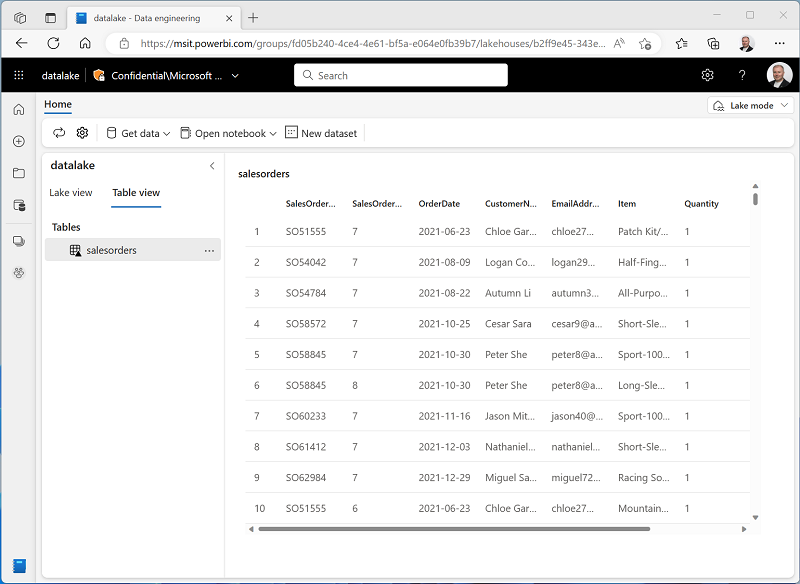
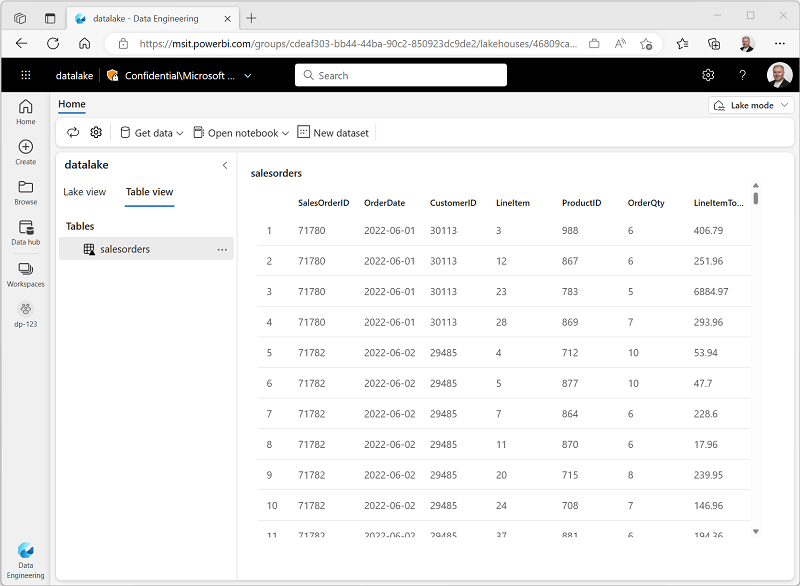
Added warehouse section

diff --git a/Instructions/Labs/00-lakehouse.md b/Instructions/Labs/00-lakehouse.md
@@ -4,13 +4,18 @@ lab:
     module: 'Get started with Lakehouses'
 ---
 
+---
+*The UI is changing frequently -we'll need to update (or remove) screenshots prior to release.*
+
+---
+
 # Create a lakehouse
 
 Large-scale data analytics solutions have traditionally been built around a *data warehouse*, in which data is stored in relational tables and queried using SQL. The growth in "big data" (characterized by high *volumes*, *variety*, and *velocity* of new data assets) together with the availability of low-cost storage and cloud-scale distributed compute technologies has led to an alternative approach to analytical data storage; the *data lake*. In a data lake, data is stored as files without imposing a fixed schema for storage. Increasingly, data engineers and analysts seek to benefit from the best features of both of these approaches by combining them in a *data lakehouse*; in which data is stored in files in a data lake and a relational schema is applied to them as a metadata layer so that they can be queried using traditional SQL semantics.
 
 In Microsoft Fabric, a lakehouse is an artifact in a workspace that provides highly scalable file storage in a *OneLake* storage service with a relational metastore based on Apache Spark *Delta Lake* technology. Delta Lake enables you to "overlay" file data with a relational schema of tables that support transactional semantics and other capabilities commonly found in a traditional relational data warehouse.
 
-This lab will take approximately **30** minutes to complete.
+This lab will take approximately **45** minutes to complete.
 
 ## Before you start
 
@@ -59,32 +64,32 @@ There are multiple ways to load data into the lakehouse.
 
 One of the simplest ways to ingest small amounts of data into the lakehouse is to upload files or folders from your local computer.
 
-1. Download the **sales.csv** file from [https://raw.githubusercontent.com/MicrosoftLearning/dp-data/main/sales.csv](https://raw.githubusercontent.com/MicrosoftLearning/dp-data/main/sales.csv), saving it as **sales.csv** on your local computer
-2. Return to the web browser tab containing your lakehouse, and in the **...** menu for the **Files** node in the **Lake view** pane, select **Upload** and **Upload file**, and then upload the **sales.csv** file from your local computer to the lakehouse.
-3. After the file has been uploaded, select **Files** verify that the **sales.csv** file has been uploaded, as shown here:
+1. Download the **sales.csv** file from [https://raw.githubusercontent.com/MicrosoftLearning/dp-data/main/orders.csv](https://raw.githubusercontent.com/MicrosoftLearning/dp-data/main/orders.csv), saving it as **orders.csv** on your local computer
+2. Return to the web browser tab containing your lakehouse, and in the **...** menu for the **Files** node in the **Lake view** pane, select **Upload** and **Upload file**, and then upload the **orders.csv** file from your local computer to the lakehouse.
+3. After the file has been uploaded, select **Files** verify that the **orders.csv** file has been uploaded, as shown here:
 
     ![Screenshot of uploaded sales.csv file in a lakehouse.](./Images/uploaded-file.png)
 
-4. Select the **sales.csv** file to see a preview of its contents.
+4. Select the **orders.csv** file to see a preview of its contents.
 
 ### Load file data into a table
 
 The sales data you uploaded is in a file, which data analysts and engineers can work with directly by using Apache Spark code. However, in many scenarios you may want to load the data from the file into a table so that you can query it using SQL.
 
-1. On the **Home** page while viewing the contents of the **sales.csv** file in your datalake, in the **Open notebook** menu, select **New notebook**.
+1. On the **Home** page while viewing the contents of the **orders.csv** file in your datalake, in the **Open notebook** menu, select **New notebook**.
 
     After a few seconds, a new notebook containing a single *cell* will open. Notebooks are made up of one or more cells that can contain *code* or *markdown* (formatted text).
 
 2. Select the existing cell in the notebook, which contains some simple code, and then use its **&#128465;** (*Delete*) icon at its top-right to remove it - you will not need this code.
-3. In the pane on the left, select the **Files** list to reveal a new pane showing the **sales.csv** file you uploaded previously:
+3. In the pane on the left, select the **Files** list to reveal a new pane showing the **orders.csv** file you uploaded previously:
 
     ![Screenshot of a notebook with a Files pane.](./Images/notebook-file.png)
 
-2. In the **...** menu for **sales.csv**, select **Load data** > **Spark**. A new code cell containing the following code should be added to the notebook:
+2. In the **...** menu for **orders.csv**, select **Load data** > **Spark**. A new code cell containing the following code should be added to the notebook:
 
     ```python
-    df = spark.read.format("csv").option("header","true").load("Files/sales.csv")
-    # df now is a Spark DataFrame containing CSV data from "Files/sales.csv".
+    df = spark.read.format("csv").option("header","true").load("Files/orders.csv")
+    # df now is a Spark DataFrame containing CSV data from "Files/orders.csv".
     display(df)
     ```
 
@@ -96,14 +101,16 @@ The sales data you uploaded is in a file, which data analysts and engineers can 
 
 4. When the cell command has completed, review the output below the cell, which should look similar to this:
 
-    | Index | SalesOrderNumber | SalesOrderLineNumber | OrderDate | CustomerName | Email | Item | Quantity | UnitPrice | Tax |
-    | -- | -- | -- | -- | -- | -- | -- | -- | -- | -- |
-    | 1 | SO43701 | 11 | 2019-07-01 | Christy Zhu | christy12@adventure-works.com | Mountain-100 Silver, 44 | 16 | 3399.99 | 271.9992 |
-    | 2 | SO43704 | 1 | 2019-07-01 | Julio Ruiz | julio1@adventure-works.com | Mountain-100 Black, 48 | 1 | 3374.99 | 269.9992 |
-    | 3 | SO43705 | 1 | 2019-07-01 | Curtis Lu | curtis9@adventure-works.com | Mountain-100 Silver, 38 | 1 | 3399.99 | 271.9992 |
-    | ... | ... | ... | ... | ... | ... | ... | ... | ... | ... |
+    |SalesOrderID|OrderDate|CustomerID|LineItem|ProductID|OrderQty|LineItemTotal|
+    |---|---|---|---|---|---|---|
+    |71774|2022-06-01|29847|1|836|1|356.9|
+    |71774|2022-06-01|29847|2|822|1|356.9|
+    |71776|2022-06-01|30072|1|907|1|63.9|
+    |71780|2022-06-01|30113|1|905|4|873.82|
+    |71780|2022-06-01|30113|2|983|2|923.39|
+    |...|...|...|...|...|...|...|
 
-5. Under the output, use the **+ Code** button to add a new code cell to the notebook. Then add the following code to the new cell:
+5. Under the output, use the **+ Code** button to add a new code cell to the notebook if an empty one does not already exist. Then add the following code to the new cell:
 
     ```Python
     # Create a new table
@@ -122,7 +129,7 @@ The sales data you uploaded is in a file, which data analysts and engineers can 
 
 When you need to regularly copy data from an external source into the lakehouse, you can create a pipeline that contains a **Copy Data** activity. Pipelines can be run on-demand or scheduled to run at specific intervals.
 
-1. On the **Home** page, in the **Get data** menu, select **New data pipeline**.
+1. On the **Home** page, in the **Get data** menu, select **New data pipeline**. When prompted, name the pipeline **Import Data**.
 
     The pipeline editor opens in a new browser tab (if you are prompted to allow pop-ups, do so).
 
@@ -135,7 +142,9 @@ When you need to regularly copy data from an external source into the lakehouse,
     - **URL**: `https://raw.githubusercontent.com/MicrosoftLearning/dp-data/main/products.csv`
     - **Connection**: Create new connection
     - **Connection name**: web_product_data
-    - **Authentication kind**: Anonymous
+    - **Authentication kind**: Basic
+    - **Username**: *Leave blank*
+    - **Password**: *Leave blank*
 
 5. Select **Next**. Then ensure the following settings are selected:
     - **Relative URL**: *Leave blank*
@@ -161,7 +170,7 @@ When you need to regularly copy data from an external source into the lakehouse,
 
     ![Screenshot of a pipeline with a Copy Data activity.](./Images/copy-data-pipeline.png)
 
-11. Use the **&#9655; Run** button to run the pipeline, saving the pipeline as **Copy Product Data** when prompted.
+11. Use the **&#9655; Run** button to run the pipeline, saving the pipeline when prompted.
 
     When the pipeline starts to run, you can monitor its status in the **Output** pane under the pipeline designer. Wait until it has succeeeded.
 
@@ -174,15 +183,69 @@ When you need to regularly copy data from an external source into the lakehouse,
 
     ![Screenshot of the product table.](./Images/product-table.png)
 
-16. Select the **Lave view** tab and refresh the **Tables** section to see the folder for the **product** data files.
+16. Select the **Lake view** tab and refresh the **Tables** section to see the folder for the **product** data files.
 
     ![Screenshot of the files for the product table.](./Images/table-files.png)
 
-In this exercise, you have created a lakehouse and imported data into it. You've seen how a lakehouse consists of files stored in a OneLake data store, some of which are used to store the data for managed tables.
+## Explore the default warehouse
+
+When you create a lakehouse and define tables in it, a default warehouse is automatically created to provide a SQL endpoint through which the tables can be queried using SQL `SELECT` statements.
 
 ---
-*Possibly extend this to include working with a dataset so students see the point of defining tables in a lakehouse to support Power BI reporting. There seem to be some issues at the moment though - the default dataset doesn't seem to include the latest table and there's no obvious way to force it to refresh, and creating a new dataset results in a server error.*
-
-*If so, we might want to normalize the CSV data so that there's a product key relationship between products and salesorders*
+*Currently, the read-only SQL endpoint for the lakehouse is called the "default warehouse". However, this will change to "SQL Endpoint" to avoid confusion with the "Data Warehouse" artifact type, which will be a fully transactional relational data warehouse. At that point, we'll need to update this section.*
 
 ---
+
+1. In the bar on the left, select the icon for your workspace to view all of the artifacts it contains:
+
+    ![Screenshot of the workspace page.](./Images/workspace.png)
+
+2. Note that the workspace includes multiple assets with the name you assigned to the lakehouse. These include:
+    - The *lakehouse* itself
+    - A default *dataset* that can be used to build Power BI reports from the data in your lakehouse.
+    - A default *warehouse* that provides a SQL endpoint for the tables in your lakehouse.
+
+3. Select the default warehouse for your lakehouse. After a short time, it will open in a visual interface from which you can explore the tables in your lakehouse, as shown here:
+
+    ![Screenshot of the warehouse page.](./Images/warehouse.png)
+
+4. Use the **New SQL query** button to open a new query editor, and enter the following SQL query:
+
+    ```sql
+    SELECT p.ProductName, COUNT(s.SalesOrderID) AS OrderCount
+    FROM salesorders AS s
+    JOIN product AS p
+        ON s.ProductID = p.ProductID
+    GROUP BY  p.ProductName
+    ORDER BY p.ProductName
+    ```
+
+5. Use the **&#9655; Run** button to run the query and view the results, which should show the number of orders placed for each product.
+6. At the top right of the page, use the drop-down menu to switch from **Warehouse mode** to **Lake mode** and note that this reverts the view to the page for your lakehouse, where you can manage the files containing your data.
+
+## Explore the default dataset
+
+As you saw previously, creating and populating tables in a lakehouse automatically generated a default *dataset* that you can use as the basis for a Power BI data visualization.
+
+1. In the bar on the left, select the icon for your workspace to view all of the artifacts it contains.
+
+2. Select the default dataset for your lakehouse. This opens the dataset as shown here:
+
+    ![Screenshot of the dataset page.](./Images/dataset.png)
+
+3. In the **Create a report** drop-down list, select **Auto-create** to create a new report based on the dataset. Then wait for the report to be generated.
+
+---
+*Currently, the default dataset is only refreshed when the first table is created - the second table (in this case products) is not included, and there's no apparent way to force a refresh!*
+
+---
+
+## Clean up resources
+
+In this exercise, you have created a lakehouse and imported data into it. You've seen how a lakehouse consists of files stored in a OneLake data store, some of which are used to store the data for managed tables. The managed tables can be explored and manipulated using Spark, queried using SQL, and included in a dataset to support data visualizations.
+
+If you've finished exploring your lakehouse, you can delete the workspace you created for this exercise.
+
+1. In the bar on the left, select the icon for your workspace to view all of the artifacts it contains.
+2. In the **...** menu on the toolbar, select **Workspace settings**.
+3. In the **Other** section, select **Delete this workspace**.
